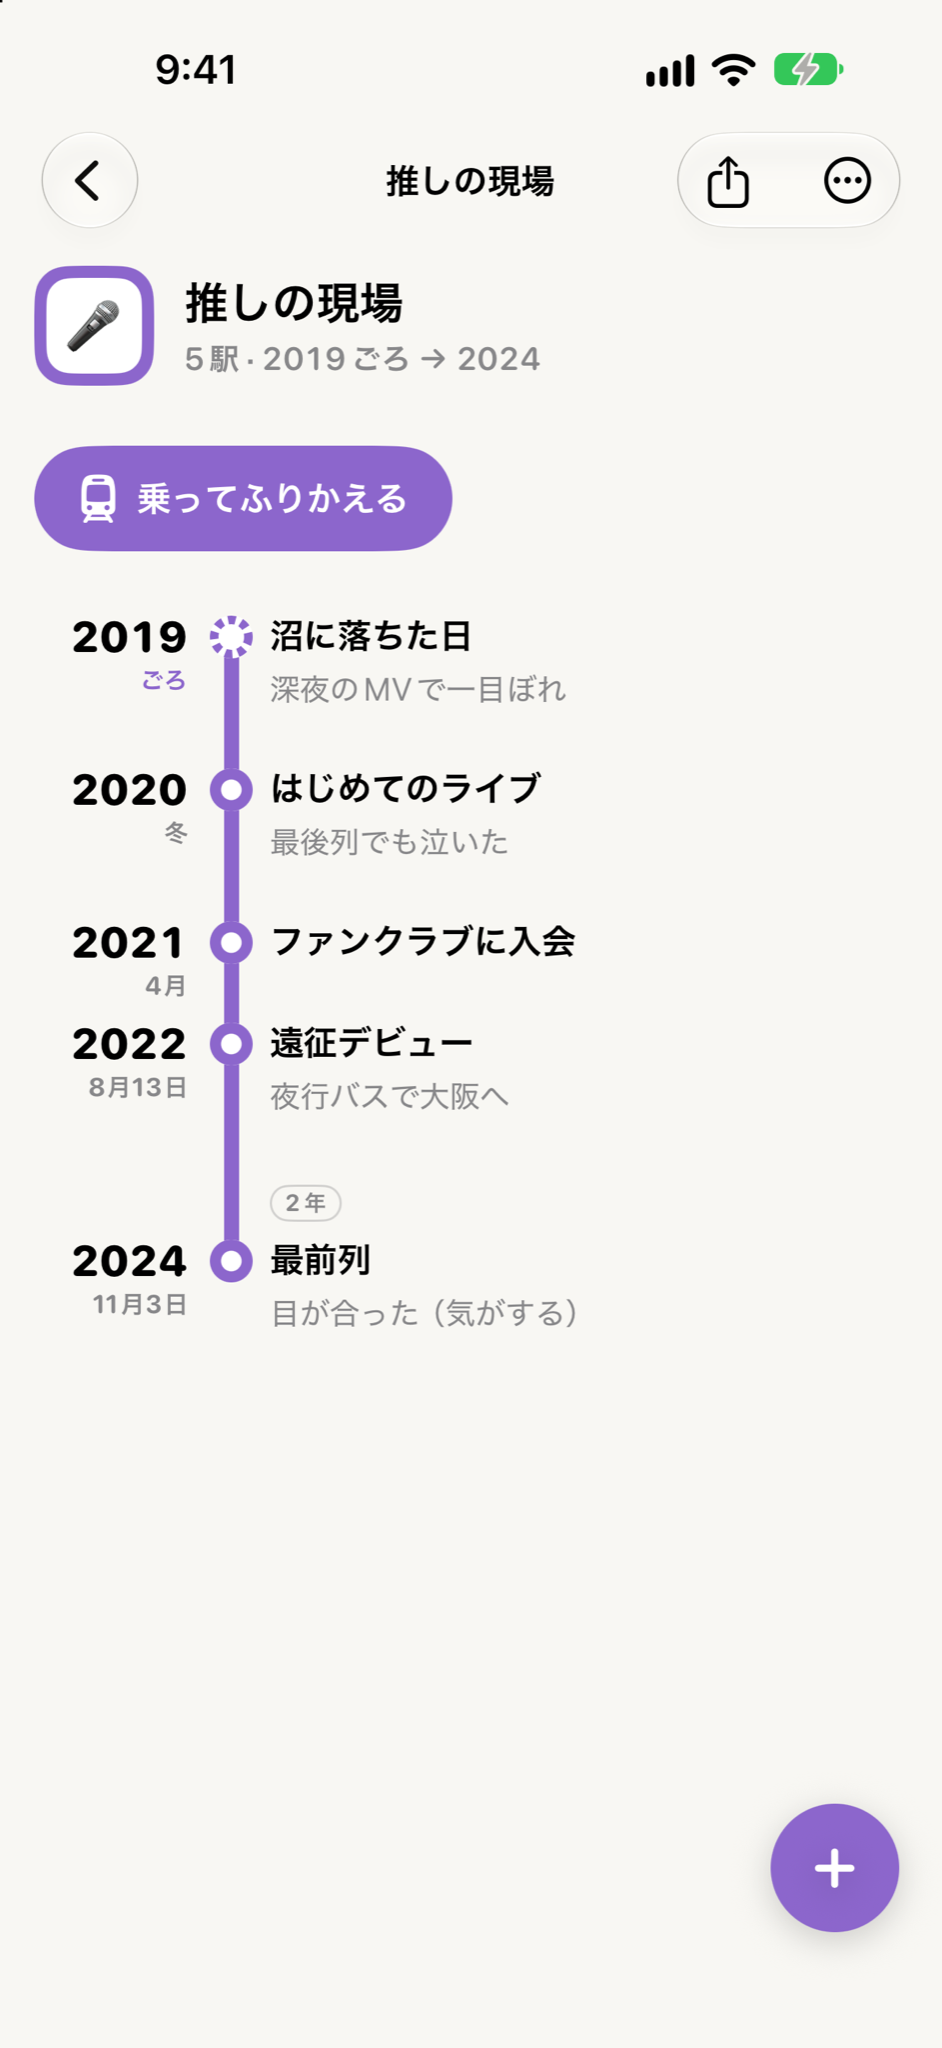
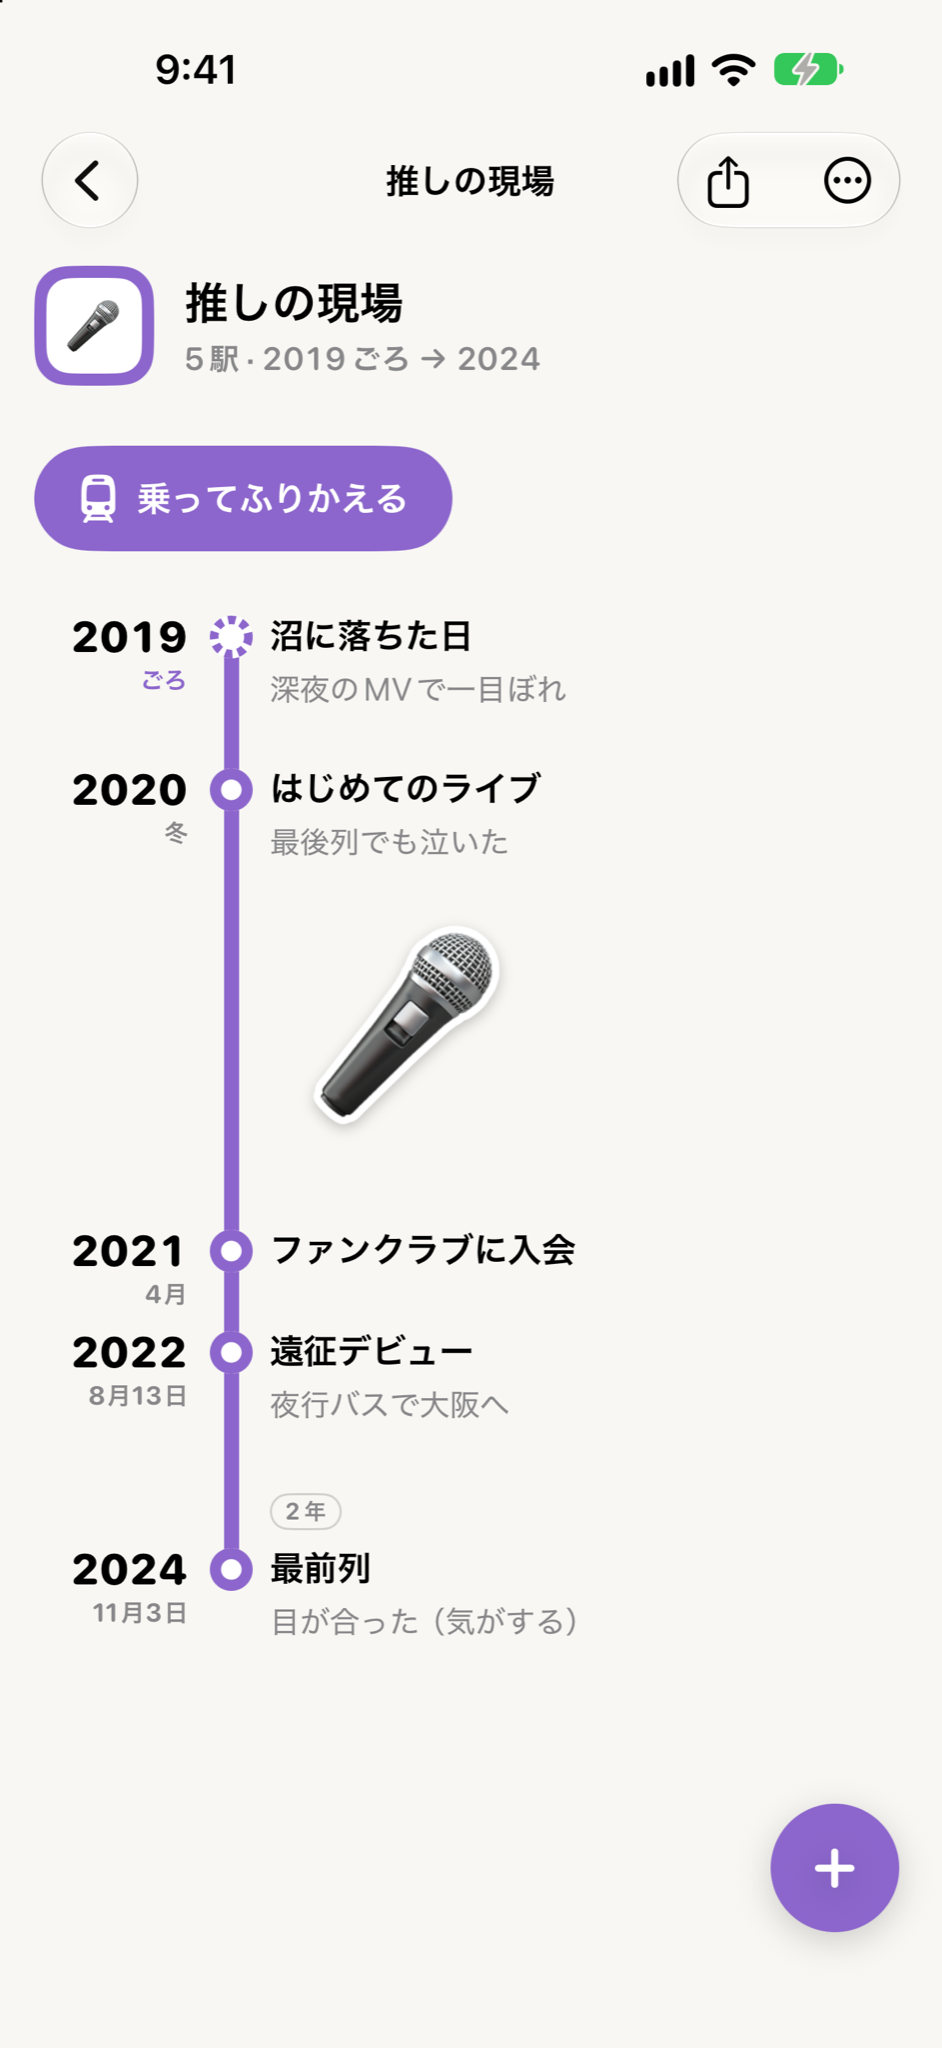
あのころ線：スクショの「画像で共有」を「写真で残せる」に差し替え
Claude-Session: https://claude.ai/code/session_01T1AS2PeXS4ZJJ3j7rkCQNP

diff --git a/anokoro-sen/index.html b/anokoro-sen/index.html
@@ -68,8 +68,8 @@
           <div class="slide-copy"><span>03</span><h3>着せ替え</h3><p>星座では北斗七星が少しずつ完成します。</p></div>
         </article>
 <article class="slide" data-slide>
-          <div class="shot-frame"><img src="assets/screenshots/05-share.png" alt="画像で共有" loading="lazy"></div>
-          <div class="slide-copy"><span>04</span><h3>画像で共有</h3><p>SNSに載せやすい縦長の画像に書き出せます。</p></div>
+          <div class="shot-frame"><img src="assets/screenshots/04-photos.png" alt="写真で残せる" loading="lazy"></div>
+          <div class="slide-copy"><span>04</span><h3>写真で残せる</h3><p>人やペットを切り抜いて、ステッカーみたいに貼れます。</p></div>
         </article>
 <article class="slide" data-slide>
           <div class="shot-frame"><img src="assets/screenshots/06-list.png" alt="年表の一覧" loading="lazy"></div>
